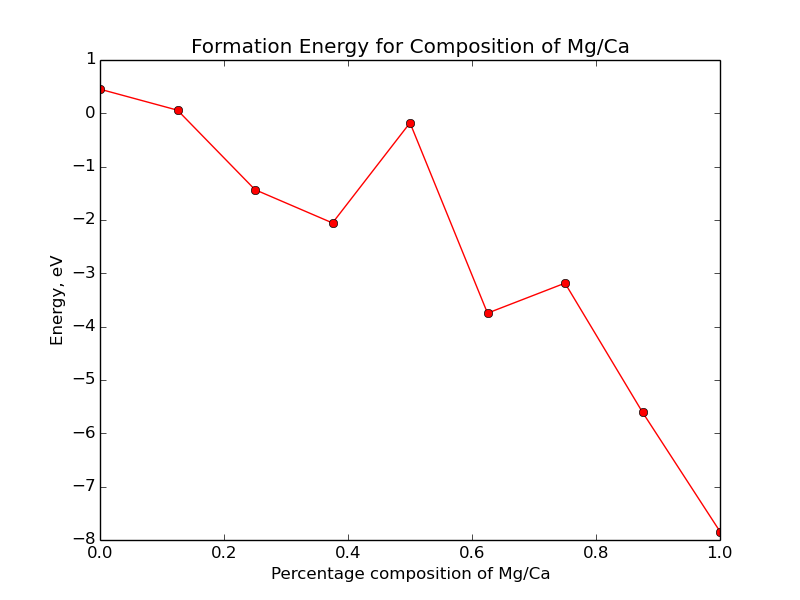
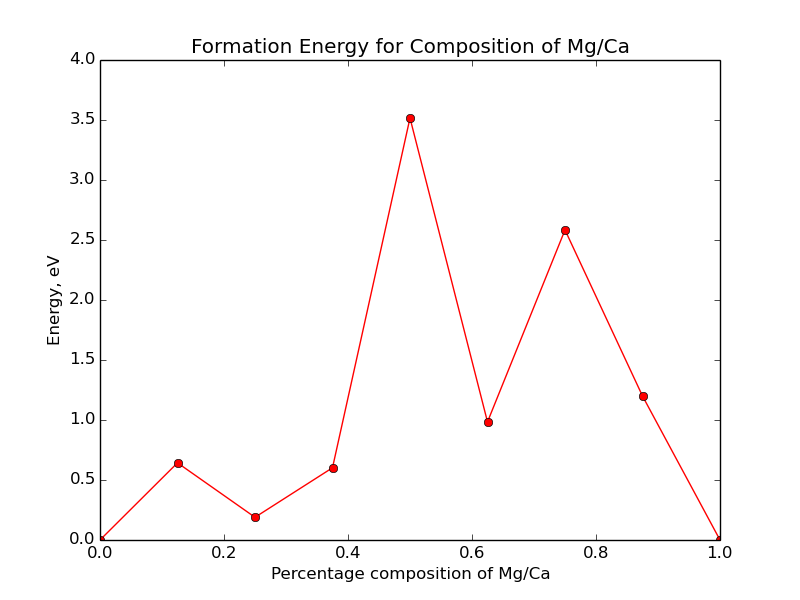
updated plotting to be of the correct form

diff --git a/plotting.py b/plotting.py
@@ -3,7 +3,7 @@ import matplotlib.pyplot as plt
 
 def fixy(x,y,coeff, n):
 
-    cheating =False
+    cheating =True
     
     if(cheating == True):
         eca=y[0]
